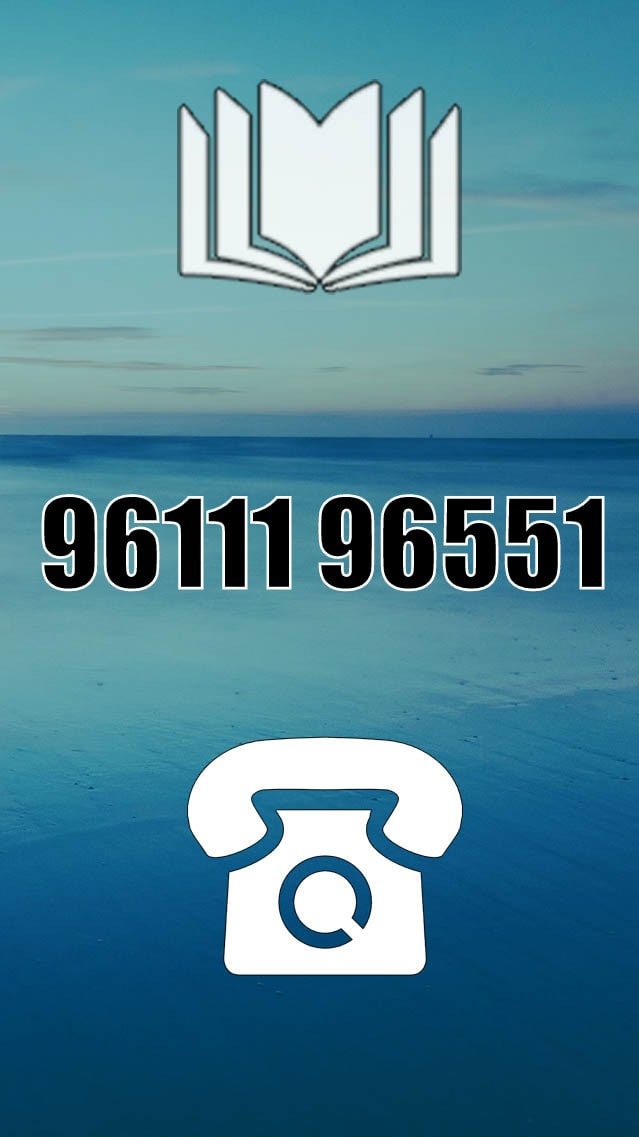
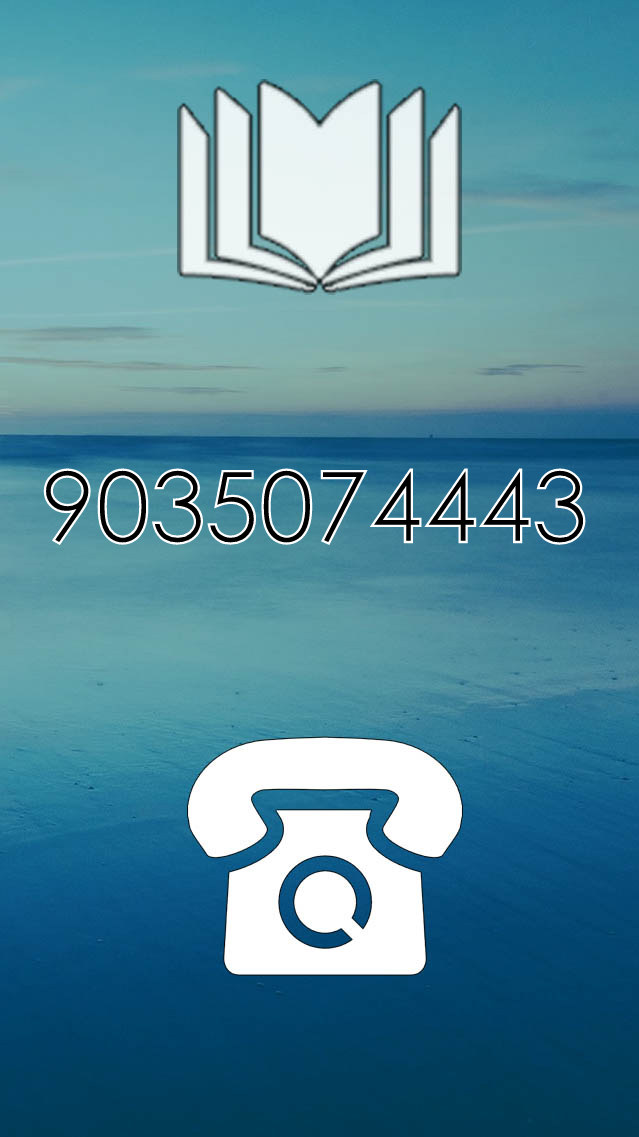
Changed contact details and added meta description

Changed region(s): [[0.0595, 0.4002, 0.9515, 0.5233]]

diff --git a/google6b93f74e6b58a903.html b/google6b93f74e6b58a903.html
@@ -1,0 +1,1 @@
+google-site-verification: google6b93f74e6b58a903.html
